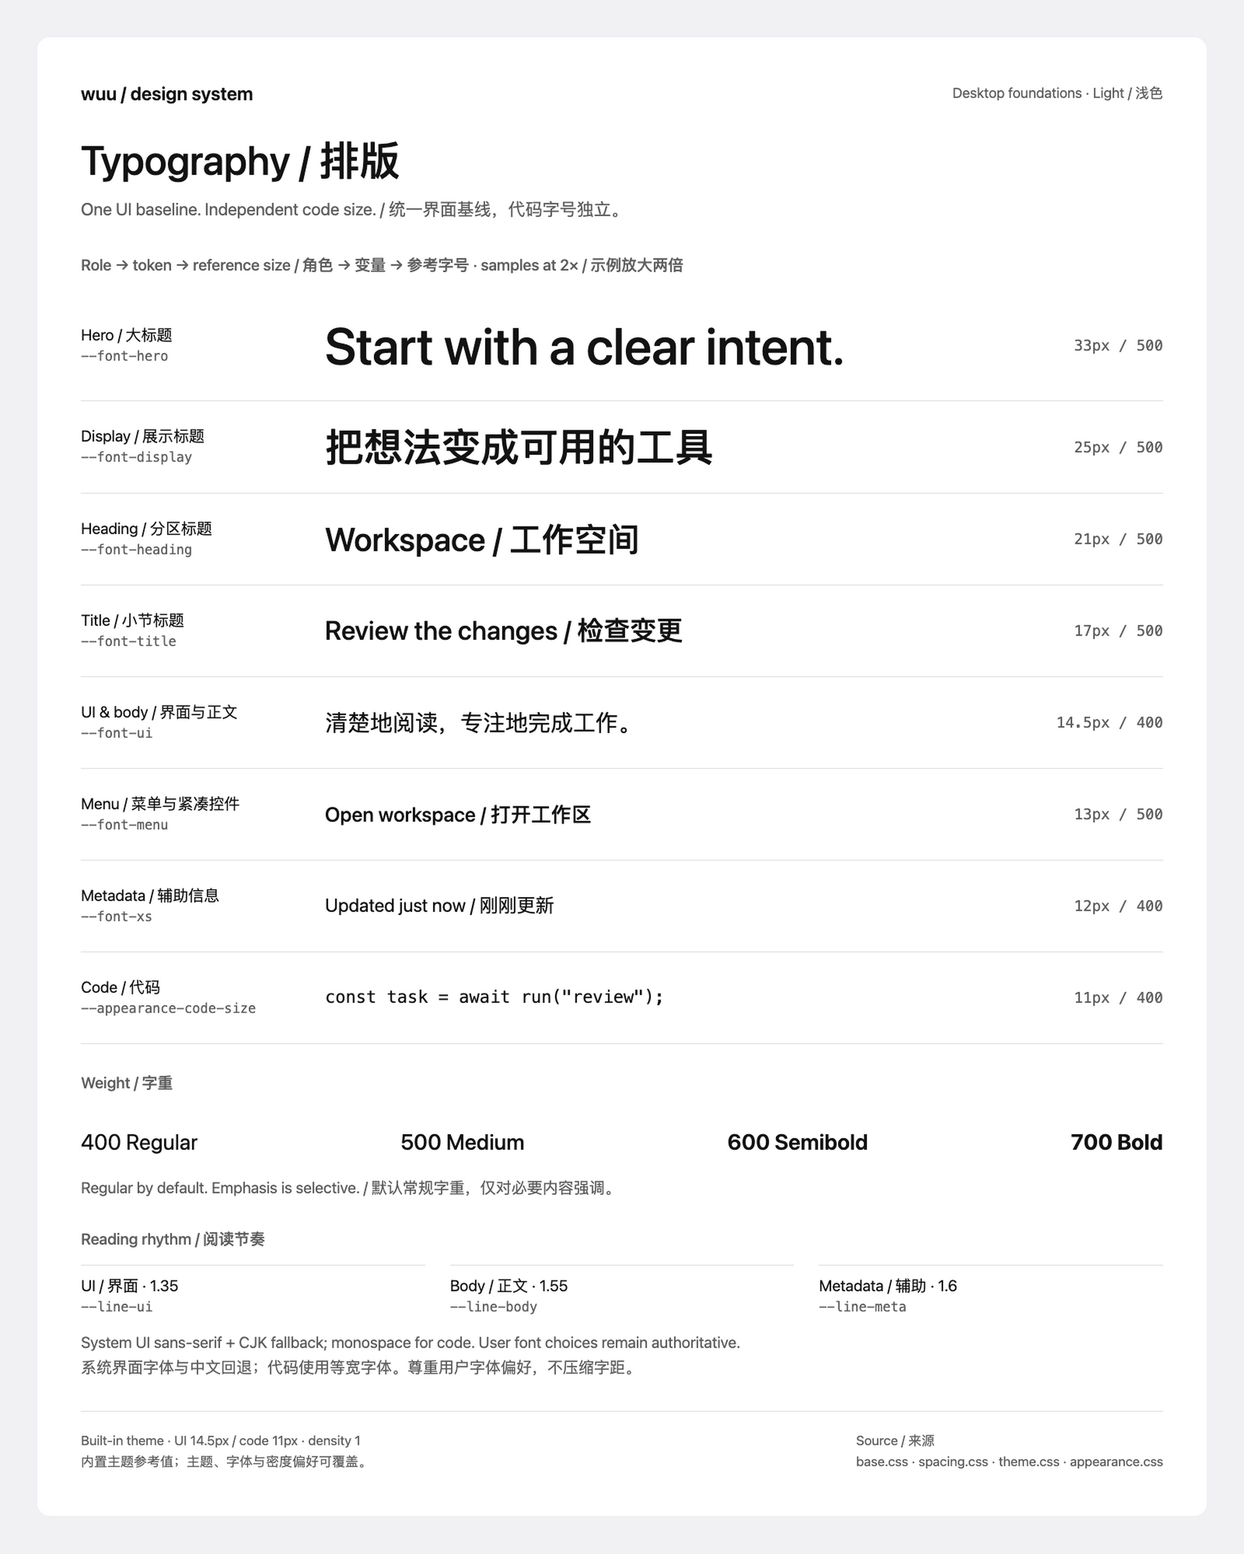
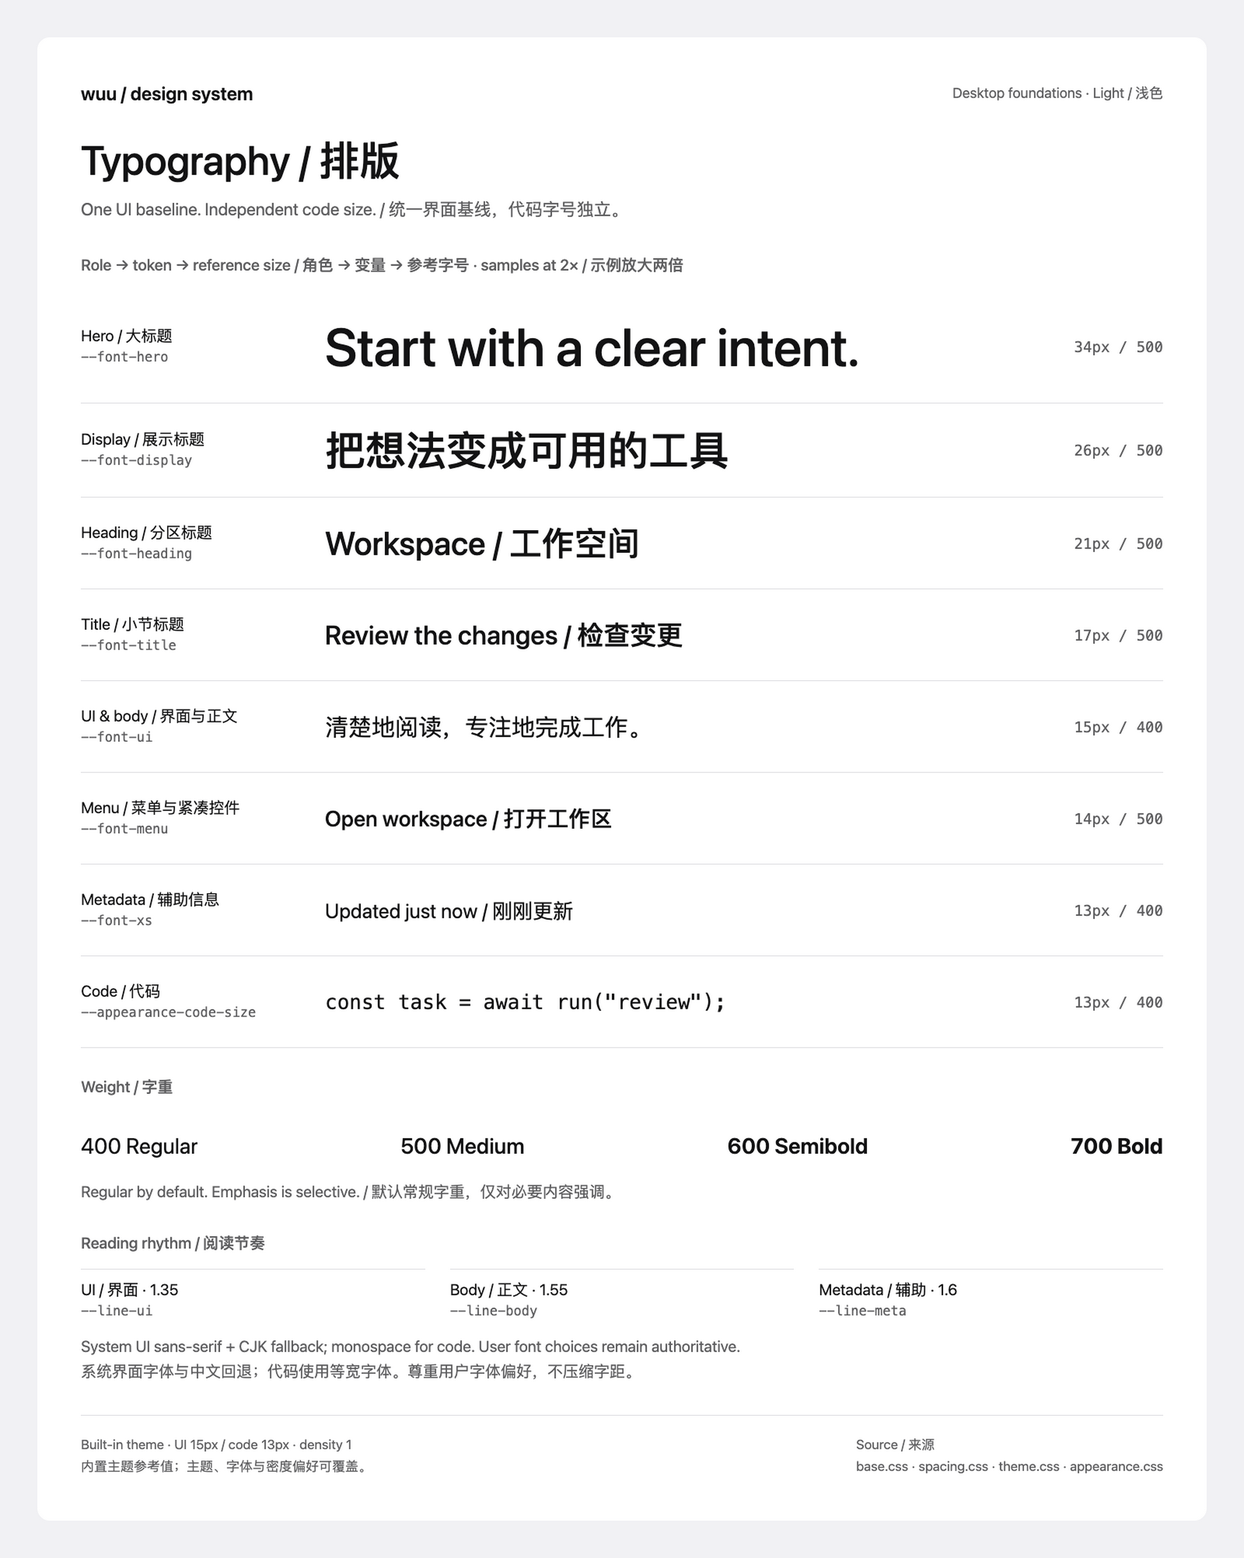
feat(desktop): establish font-relative spacing across reading surfaces

diff --git a/desktop/src/renderer/styles/conversation-shell.css b/desktop/src/renderer/styles/conversation-shell.css
@@ -52,11 +52,11 @@
   --conversation-message-font-weight: 400;
   /* Outer message-flow rhythm. Structural containers must consume these
      landmarks instead of adding their own anonymous gaps on top. */
-  --conversation-flow-top-gap: 36px;
+  --conversation-flow-top-gap: var(--section-gap);
   /* Answer actions already reserve their own row inside the preceding turn. */
-  --conversation-turn-boundary-gap: 16px;
-  --conversation-turn-item-gap: 8px;
-  --conversation-image-gap: max(var(--space-6), calc(var(--conversation-message-font-size) * 1.2));
+  --conversation-turn-boundary-gap: var(--section-gap);
+  --conversation-turn-item-gap: var(--space-2);
+  --conversation-image-gap: var(--space-6);
   /* One leading for everything read or typed in a conversation: answers,
      sent queries and every composer draft, including composers outside
      .conversation-pane. A relaxed body line makes mixed CJK, Latin and inline
@@ -78,7 +78,7 @@
   /* Transparent dock space above the composer frame. It is part of the gap
      between the latest turn and the input, so the clearance subtracts it and
      that gap stays one group gap at every window width. */
-  --conversation-dock-top-space: clamp(12px, calc(0.833333vw + 8.666667px), 16px);
+  --conversation-dock-top-space: var(--space-4);
   --conversation-composer-clearance: calc(var(--section-gap) - var(--conversation-dock-top-space));
 }
 
@@ -103,13 +103,13 @@
   /* Providers may confirm an answer only after streaming finishes. Its
      provisional process placement must use the final reading rhythm. */
   --conversation-commentary-line-height: var(--conversation-reading-line-height);
-  --conversation-prose-block-gap: round(nearest, calc(var(--conversation-message-font-size) * 0.8), 1px);
-  --conversation-prose-heading-before: calc(var(--conversation-message-font-size) * 1.7);
-  --conversation-prose-heading-after: calc(var(--conversation-message-font-size) * 0.55);
-  --conversation-prose-list-gap: calc(var(--conversation-message-font-size) * 0.4);
+  --conversation-prose-block-gap: var(--space-4);
+  --conversation-prose-heading-before: var(--section-gap);
+  --conversation-prose-heading-after: var(--space-2);
+  --conversation-prose-list-gap: var(--space-2);
   --conversation-prose-indent: 1.45em;
   --conversation-prose-max-width: 100%;
-  --conversation-message-element-gap: max(12px, var(--conversation-message-font-size));
+  --conversation-message-element-gap: var(--space-4);
   /* Process rows share the message size and weight; color and spacing,
      not a smaller/heavier type style, make them read as secondary. */
   --conversation-process-font-size: var(--conversation-message-font-size);
@@ -138,18 +138,18 @@
    * gap (there is no longer a hairline rule). The action row plus the turn
    * boundary keep separate Q&A pairs farther apart than query and reply.
    */
-  --conversation-user-rule-gap: max(32px, calc(var(--conversation-user-action-size) + 12px));
-  --conversation-user-message-trailing-gap: 8px;
-  --conversation-process-detail-gap: 16px;
-  /* Reading groups do not inherit the independently configurable action-bar gap. */
-  --conversation-process-answer-gap: max(12px, calc(var(--conversation-message-font-size) * 0.75));
+  --conversation-user-rule-gap: max(var(--section-gap), calc(var(--conversation-user-action-size) + var(--space-3)));
+  --conversation-user-message-trailing-gap: var(--space-2);
+  --conversation-process-detail-gap: var(--space-4);
+  /* The answer is a new reading group after the compact activity cluster. */
+  --conversation-process-answer-gap: var(--space-6);
   /* Public message-action rhythm. Themes may tune these without depending on
    * the private action-bar DOM or taking over its interaction semantics. */
   --conversation-answer-hover-action-gap: var(--wuu-message-actions-overlay-gap, 12px);
   --conversation-message-action-icon-size: calc(var(--conversation-message-font-size) * 15 / 14);
   --conversation-message-action-size: var(--wuu-message-action-size, max(24px, calc(var(--conversation-message-action-icon-size) + 9px)));
   --conversation-user-action-size: max(20px, calc(var(--conversation-message-action-icon-size) + 5px));
-  --conversation-activity-gap: 8px;
+  --conversation-activity-gap: var(--space-2);
 }
 
 .app-shell,

diff --git a/desktop/src/renderer/styles/sidebar.css b/desktop/src/renderer/styles/sidebar.css
@@ -330,7 +330,6 @@
    * inner padding keeps labels, glyphs, and trailing actions on their axes. */
   --sidebar-content-pad-x: var(--space-3);
   --sidebar-row-pad-x: calc(var(--pane-inset) - var(--sidebar-content-pad-x));
-  --sidebar-chrome-offset-x: 14px;
   --sidebar-row-radius: calc(var(--radius-xs) + 4px);
   --sidebar-label-weight: 400;
   --sidebar-label-size: var(--font-ui);
@@ -347,25 +346,25 @@
   /* One icon and text axis for navigation, plugins, projects, and account
    * controls. Avatars occupy this same glyph slot. Icon, column, and row
    * action sizes scale with the UI font in appearance.css. */
-  --sidebar-nav-column-gap: 8px;
+  --sidebar-nav-column-gap: var(--space-2);
   --sidebar-tree-toggle-col: 14px;
-  --sidebar-tree-column-gap: 4px;
-  --sidebar-accessory-gap: 8px;
+  --sidebar-tree-column-gap: var(--space-1);
+  --sidebar-accessory-gap: var(--space-2);
   --sidebar-fork-icon-size: var(--sidebar-primary-icon-size);
   --sidebar-fork-slot-inset: calc((var(--sidebar-row-action-size) - var(--sidebar-fork-icon-size)) / 2);
   --sidebar-action-gap: var(--space-1);
   --sidebar-thread-actions-width: calc(var(--sidebar-row-action-size) * 2 + var(--sidebar-action-gap));
-  --sidebar-row-control-pad-x: 8px;
+  --sidebar-row-control-pad-x: var(--space-2);
   --sidebar-project-unread-size: var(--sidebar-session-status-dot-size);
-  /* Semantic spacing follows the shared spacing scale. Larger text grows the
-   * row itself instead of stretching the space between related items. */
+  /* Rows, heading-to-content and group breaks step through the same module.
+   * Include each row's own leading when judging the visible whitespace. */
   --sidebar-functional-row-gap: var(--sidebar-row-gap);
-  --sidebar-functional-heading-gap: var(--space-1);
-  --sidebar-functional-group-gap: var(--space-4);
+  --sidebar-functional-heading-gap: var(--space-2);
+  --sidebar-functional-group-gap: var(--space-6);
   /* Parent and child rows belong to one tree: use the same separation as
    * sibling rows. The collapse body owns this gap; lists add no outer inset. */
   --sidebar-section-body-gap: var(--sidebar-row-gap);
-  --sidebar-row-gap: 2px;
+  --sidebar-row-gap: var(--space-1);
   --sidebar-session-status-dot-size: 5px;
   --sidebar-session-status-bg: transparent;
   --sidebar-session-status-scale: 0.75;
@@ -841,7 +840,6 @@
 }
 
 .traffic-spacer .sidebar-collapse-toggle {
-  margin-right: calc(-1 * var(--sidebar-chrome-offset-x));
   position: relative;
   z-index: 1;
   -webkit-app-region: no-drag;
@@ -878,8 +876,8 @@
   grid-column: 2;
   justify-self: end;
   place-items: center;
-  /* Keep the bell centered below the sidebar toggle. */
-  margin-right: calc((var(--sidebar-row-action-size) - 32px) / 2 - var(--sidebar-chrome-offset-x));
+  /* Share the trailing-action axis with the toggle and sidebar rows. */
+  margin-right: calc((var(--sidebar-row-action-size) - 32px) / 2);
   border-radius: var(--radius-sm);
   padding: 0;
   background: transparent;
@@ -1363,12 +1361,11 @@ html[data-focus-modality="keyboard"] :is(
  * affordance under the pointer or keyboard focus. A collapsed group keeps it
  * as the cue that content is hidden. Section actions keep their footprint
  * and appear the same way, so at rest the label stands alone; an open menu
- * keeps its button. Touch keeps both visible: no hover. */
+ * keeps its button. Empty groups retain their action as the entry point.
+ * Touch keeps both visible: no hover. */
 @media (hover: hover) {
-  .sidebar-functional-heading:not(:hover, :focus-within) :is(
-    .sidebar-functional-heading-chevron[data-expanded="true"],
-    .sidebar-functional-action:not([aria-expanded="true"])
-  ) {
+  .sidebar-functional-heading:not(:hover, :focus-within) .sidebar-functional-heading-chevron[data-expanded="true"],
+  .sidebar-functional-heading:not(:hover, :focus-within, [data-empty="true"]) .sidebar-functional-action:not([aria-expanded="true"]) {
     opacity: 0;
   }
 }

diff --git a/desktop/src/renderer/styles/composer.css b/desktop/src/renderer/styles/composer.css
@@ -778,7 +778,7 @@ html[data-focus-modality="keyboard"] .composer > textarea:focus-visible {
 
 .hero-composer-wrap .composer {
   --composer-text-start: var(--card-padding);
-  --composer-text-padding-top: 16px;
+  --composer-text-padding-top: var(--card-padding);
   min-height: var(--composer-collapsed-min-height);
 }
 
@@ -1117,7 +1117,7 @@ html[data-focus-modality="keyboard"] .composer-drawer-summary-select:focus-visib
   border: 0;
   outline: 0;
   background: transparent;
-  padding: var(--composer-text-padding-top) 44px 8px var(--composer-text-start);
+  padding: var(--composer-text-padding-top) calc(32px + var(--space-3)) var(--space-2) var(--composer-text-start);
   color: var(--ink);
   font-size: var(--font-body);
   /* Drafts read at the message rhythm: typed text keeps its leading once
@@ -1284,11 +1284,11 @@ html[data-focus-modality="keyboard"] .composer-drawer-summary-select:focus-visib
   min-width: 0;
   height: 40px;
   align-items: center;
-  gap: 8px;
+  gap: var(--space-2);
   overflow: hidden;
   /* The leading glyph aligns with the text; the trailing send circle, drawn
    * 2px inside its button, aligns with the corner instead. */
-  padding: 0 calc(var(--composer-corner-inset) - 2px) 4px
+  padding: 0 calc(var(--composer-corner-inset) - 2px) var(--space-1)
     calc(var(--composer-text-start) - var(--composer-control-icon-inset));
   container: composer-toolbar / inline-size;
 }
@@ -1298,7 +1298,7 @@ html[data-focus-modality="keyboard"] .composer-drawer-summary-select:focus-visib
   display: flex;
   min-width: 0;
   align-items: center;
-  gap: 8px;
+  gap: var(--space-2);
   /* Clip a toolbar squeezed past its controls, but leave room for their
    * keyboard rings (2px ring at a 2px offset). */
   overflow: clip;

diff --git a/desktop/src/renderer/styles/spacing.css b/desktop/src/renderer/styles/spacing.css
@@ -3,7 +3,10 @@
  * these internal; themes customize the existing public unit/density inputs. */
 :root,
 [data-wuu-density] {
-  --space-1: calc(var(--wuu-space-unit, 4px) * var(--wuu-space-density, 1));
+  /* A quarter of the UI em is the module. Snap before multiplying so half,
+   * one and two em relationships share the same grid at every saved size.
+   * Explicit theme units and density retain control of their own scale. */
+  --space-1: calc(var(--wuu-space-unit, round(nearest, calc(var(--font-ui) / 4), 1px)) * var(--wuu-space-density, 1));
   --space-2: calc(var(--space-1) * 2);
   --space-3: calc(var(--space-1) * 3);
   --space-4: calc(var(--space-1) * 4);
@@ -11,7 +14,7 @@
   --space-6: calc(var(--space-1) * 6);
   --space-8: calc(var(--space-1) * 8);
 
-  /* Window resizing keeps the same spacing rhythm across all surfaces. */
+  /* Two text widths separate groups; one frames related content. */
   --page-padding: var(--space-8);
   /* Pane edge to the first and last visible glyph (text or icon ink, not a
    * button box) in chrome rows: sidebar rows, titlebars, tab bars. Controls
@@ -19,7 +22,7 @@
   --pane-inset: var(--space-5);
   --content-column-width: 816px;
   --section-gap: var(--space-8);
-  --section-heading-gap: var(--space-4);
+  --section-heading-gap: var(--space-2);
   --card-padding: var(--space-4);
   --panel-padding: var(--space-5);
   --compact-padding-block: var(--space-2);

diff --git a/desktop/src/renderer/styles/settings.css b/desktop/src/renderer/styles/settings.css
@@ -9,7 +9,7 @@
   --settings-group-radius: var(--radius-md);
   --settings-group-shadow: var(--shadow-soft);
   /* Row breathing room; empty lines and list rows share it. */
-  --settings-row-pad-block: var(--space-3);
+  --settings-row-pad-block: var(--space-4);
   --subscription-meter: var(--wuu-accent);
   /* Usage charts and the home overview share one ramp: a single blue stepped
    * in lightness, so the four levels and an empty day each read at a glance
@@ -77,7 +77,7 @@
  * main sidebar uses internal group gaps instead — see
  * `--sidebar-functional-group-gap`). */
 .settings-sidebar .sidebar-content {
-  gap: 4px;
+  gap: var(--sidebar-row-gap);
 }
 
 .settings-sidebar .traffic-spacer {
@@ -306,7 +306,7 @@
   flex-direction: column;
   gap: var(--settings-gap);
   margin: 0 auto;
-  padding: var(--space-4) var(--settings-pad) calc(var(--settings-pad) * 2);
+  padding: var(--section-gap) var(--settings-pad) calc(var(--settings-pad) * 2);
   animation: content-swap-enter var(--content-swap-duration) var(--content-swap-easing) both;
 }
 
@@ -448,7 +448,7 @@
 .settings-section-heading {
   display: grid;
   min-width: 0;
-  gap: 2px;
+  gap: var(--space-1);
 }
 
 .settings-section-title {
@@ -572,7 +572,7 @@
 .settings-row-label {
   display: flex;
   flex-direction: column;
-  gap: 2px;
+  gap: var(--space-1);
   min-width: 0;
 }
 

diff --git a/desktop/src/renderer/AppSidebar.tsx b/desktop/src/renderer/AppSidebar.tsx
@@ -2071,6 +2071,7 @@ export function AppSidebar({
                     : undefined}
                   headingClassName={`sidebar-folder-heading${folderDragCanRemove ? " remove-drop-available" : ""}${folderDropTargetID === FOLDER_REMOVE_DROP_TARGET ? " drop-active" : ""}`}
                   headingProps={{
+                    "data-empty": visibleFolderSortableIDs.length === 0 || undefined,
                     "data-folder-remove-drop": folderDragCanRemove || undefined,
                     onDragEnter: dragSessionOverFolderRemoval,
                     onDragOver: dragSessionOverFolderRemoval,
@@ -2407,6 +2408,7 @@ function SortableFunctionalGroup({
   itemDropIndicator?: "before" | "after";
   headingClassName?: string;
   headingProps?: HTMLAttributes<HTMLDivElement> & {
+    "data-empty"?: boolean;
     "data-folder-remove-drop"?: boolean;
   };
   headingLabel: ReactNode;

diff --git a/desktop/src/renderer/styles/base.css b/desktop/src/renderer/styles/base.css
@@ -8,9 +8,9 @@
     "Source Han Sans SC", "Noto Sans CJK SC", "Noto Sans SC", sans-serif
   );
   --wuu-grid-cols: 12;
-  --wuu-grid-baseline: calc(var(--wuu-space-unit, 4px) * 2 * var(--wuu-space-density, 1));
+  --wuu-grid-baseline: var(--space-2);
   --wuu-grid-leading: 24px;
-  --wuu-grid-gutter: calc(var(--wuu-space-unit, 4px) * 6 * var(--wuu-space-density, 1));
+  --wuu-grid-gutter: var(--space-6);
   --wuu-grid-margin: clamp(32px, 4vw, 64px);
   --wuu-grid-max-width: var(--wuu-content-max-width, 1088px);
                                                                      

diff --git a/desktop/src/renderer/styles/turns.css b/desktop/src/renderer/styles/turns.css
@@ -2049,7 +2049,9 @@
 }
 
 .turn-process-fold-body {
-  padding: var(--conversation-process-detail-gap) 0 0 0;
+  /* The header and its first detail form one group; prose entries keep the
+   * wider reading gap below. */
+  padding: var(--conversation-activity-gap) 0 0 0;
 }
 
 /* A direct reply begins here until the provider confirms it as an answer.

diff --git a/docs/en/project/design-system.md b/docs/en/project/design-system.md
@@ -97,26 +97,28 @@ The current runtime defaults are **15px UI** and **13px code**. Ratios in `appea
 
 Derived roles round to whole pixels. The saved UI size may be a half step, but fractional derived sizes would put line boxes and 1px edges between device pixels.
 
-Use 400 for ordinary text, 500 for compact menu items, and 500 or 600 selectively for headings and emphasis. Reserve 700 for occasional strong emphasis. Message emphasis uses 600. On macOS, system font smoothing is the default; grayscale is an optional appearance preference. Inspect both themes at regular weight before increasing emphasis. Base line-height roles are 1.35 for UI, 1.55 for body, and 1.6 for metadata; individual reading surfaces may have semantic overrides, not one forced line height for every component. Conversation reading and process leading are whole-pixel lengths derived from the message size (both 1.6, rounded to 2px), so stacked rows and cards share edges. Composer drafts use the same reading leading as sent queries and answers, so text keeps its rhythm when it is sent. Message headings step to 1.5, 1.25, and 1.1 times the body size, rounded to whole pixels, so hierarchy does not rest on weight alone. At the default size, conversation text is 15px/24px with a 12px paragraph gap. The gap scales with UI size (0.8 times, rounded to 1px). Fenced code, hover diffs, and code editors share the independent code size with 1.5 leading rounded to 1px, giving 13px/20px by default. Inline code remains 0.92 times the surrounding prose size. Preserve natural letter spacing instead of shrinking type or tightening tracking to repair layout.
+Use 400 for ordinary text, 500 for compact menu items, and 500 or 600 selectively for headings and emphasis. Reserve 700 for occasional strong emphasis. Message emphasis uses 600. On macOS, system font smoothing is the default; grayscale is an optional appearance preference. Inspect both themes at regular weight before increasing emphasis. Base line-height roles are 1.35 for UI, 1.55 for body, and 1.6 for metadata; individual reading surfaces may have semantic overrides, not one forced line height for every component. Conversation reading and process leading are whole-pixel lengths derived from the message size (both 1.6, rounded to 2px), so stacked rows and cards share edges. Composer drafts use the same reading leading as sent queries and answers, so text keeps its rhythm when it is sent. Message headings step to 1.5, 1.25, and 1.1 times the body size, rounded to whole pixels, so hierarchy does not rest on weight alone. At the default size, conversation text is 15px/24px with a 16px paragraph gap. Paragraph gaps use the shared one-em spacing role, snapped to the module described below. Fenced code, hover diffs, and code editors share the independent code size with 1.5 leading rounded to 1px, giving 13px/20px by default. Inline code remains 0.92 times the surrounding prose size. Preserve natural letter spacing instead of shrinking type or tightening tracking to repair layout.
 
 The latest active process label uses a quiet, theme-relative tone with a highlight that sweeps for one second in each four-second cycle, after an initial 600ms delay. The base text stays visible beneath the decorative highlight. Once a summary is no longer active, it uses steady `--ink-tertiary` text. Reduced motion, background conversations, and stream-following suppress the highlight; result prose keeps its normal contrast.
 
 ## Spacing and layout
 
-The standard unit is 4px, multiplied by density to form `--space-1`. The existing scale is 4, 8, 12, 16, 20, 24, 32px through `--space-1/2/3/4/5/6/8`. Prefer semantic roles; use scale steps only when local adjustment is genuinely needed.
+The spacing module is one quarter of the saved UI font size, rounded to a whole pixel and multiplied by density to form `--space-1`. At the default 15px size it remains 4px, giving 4, 8, 12, 16, 20, 24, 32px through `--space-1/2/3/4/5/6/8`; at 20px it becomes 5px. Themes may still supply an explicit `--wuu-space-unit`. Half, one, and two em relationships therefore share one grid instead of separate font multipliers or fixed gaps. Prefer semantic roles; account for line-box leading and control footprints when assessing visible whitespace.
 
 | Relationship | Variables | Standard density |
 | --- | --- | --- |
 | Pane edge to first and last glyph | `--pane-inset` | 20px |
 | Page inset | `--page-padding` | 32px |
 | Between groups, including the latest turn and the input | `--section-gap` | 32px |
-| Heading to content | `--section-heading-gap` | 16px |
+| Heading to content | `--section-heading-gap` | 8px |
 | Card and panel insets | `--card-padding`, `--panel-padding` | 16px, 20px |
 | Compact block/inline padding | `--compact-padding-block`, `--compact-padding-inline` | 8px, 12px |
 | Control block/inline padding | `--control-padding-block`, `--control-padding-inline` | 4px, 12px |
 | Menu inset and item gap | `--menu-inset`, `--menu-item-gap` | 6px, 8px |
 
-At widths up to 560px, page, pane, and panel insets become 16px and card insets 12px, still affected by density. Shared fields and menu rows have a 32px floor, or 44px for coarse pointers, and round up to the 4px grid. They grow further with text and content; fixed heights must not clip text. These field and menu-row roles do not assign one size to every icon button.
+Responsive layouts retain these spacing roles while reflowing content and controls to fit the available pane. Shared fields and menu rows have a 32px floor, or 44px for coarse pointers, and round up to the 4px grid. They grow further with text and content; fixed heights must not clip text. These field and menu-row roles do not assign one size to every icon button.
+
+In the sidebar, sibling rows use one module, headings attach to their content with two, and functional groups separate by six. The pinned append drop target owns its group break, so it does not add a second gap. In conversations, paragraphs use four modules, list items and heading-to-content gaps use two, and a new heading or turn uses eight. A process header attaches to its first detail with two modules; the final answer starts six modules after the process cluster. Message frames and the composer share the same text inset and reading leading. Settings use the two-module heading gap, four-module row padding and one-module label-to-description gap, with eight modules between sections.
 
 ### Alignment axes
 

diff --git a/CHANGELOG.md b/CHANGELOG.md
@@ -8,6 +8,13 @@ Versioning rules are documented in [the release guide](docs/en/project/release.m
 
 ## [Unreleased]
 
+### Changed
+
+- Base spacing on a shared font-relative module across navigation, conversations,
+  composers and settings. Distinguish related details, reading blocks and section
+  breaks, keep empty folder actions visible, and align the sidebar's top controls
+  with its trailing action column.
+
 ### Removed
 
 - Remove the workspace new page's Continue viewing section, which duplicated
